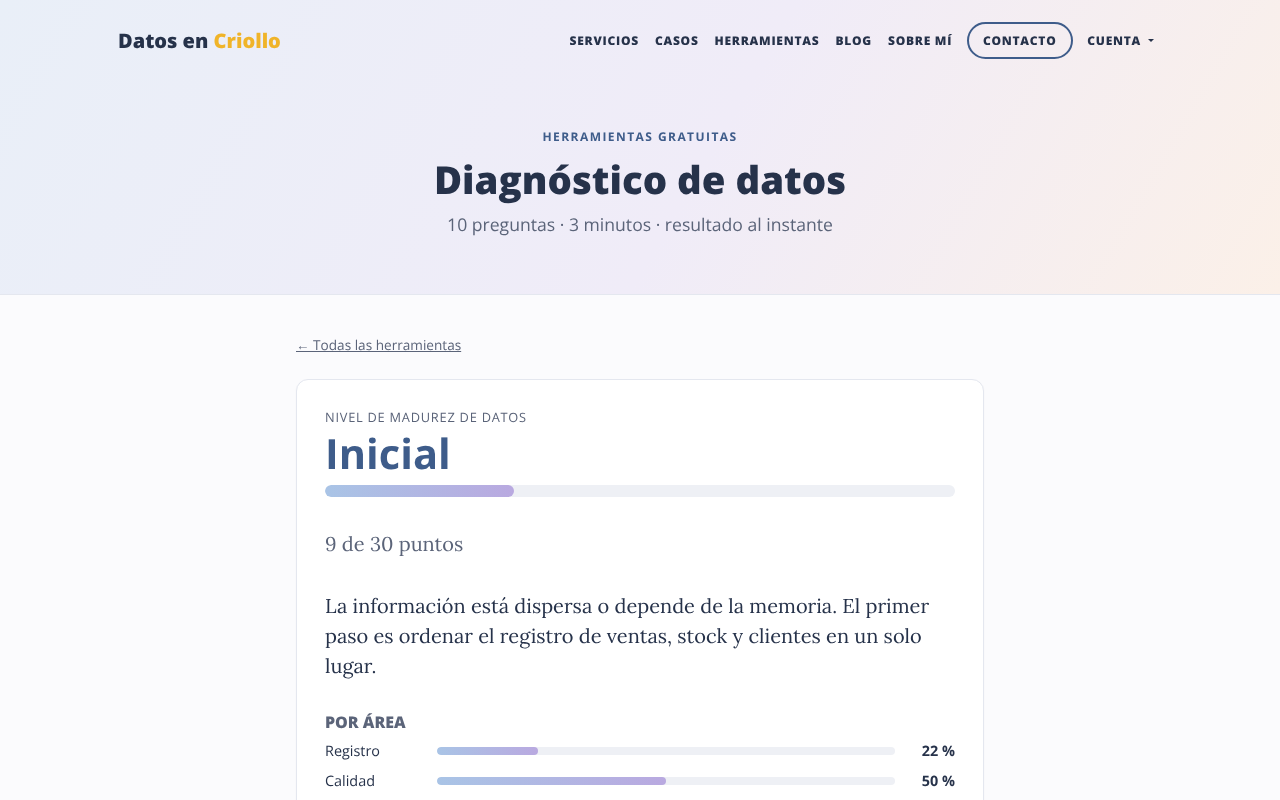
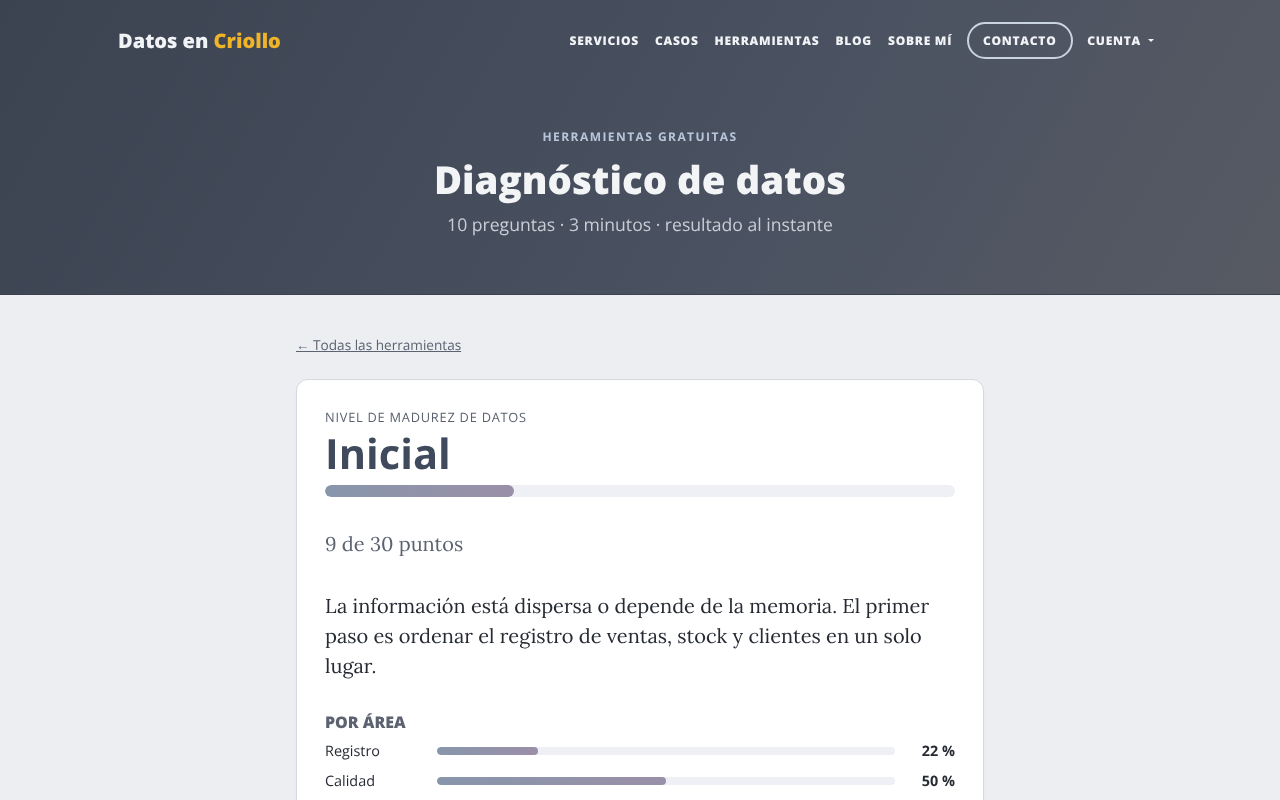
style: cambiar la sección Herramientas a la paleta «Pizarra»
Encabezado gris pizarra con texto claro, fondo gris suave y
indicadores en pastel apagado. Índice de herramientas en grilla de 2x2.

Claude-Session: https://claude.ai/code/session_01KkyTofNQKBaTxkQosPH8Ay

diff --git a/static/css/sitio.css b/static/css/sitio.css
@@ -288,49 +288,46 @@ header.masthead.masthead-inicio .site-heading { padding: 3rem 0 4rem; }
 }
 
 /* =====================================================================
-   Tema pastel: sección Herramientas (sobrio y minimalista)
+   Tema «Pizarra»: sección Herramientas (sobrio, grises y pastel apagado)
    ===================================================================== */
 .tema-pastel {
-    --p-tinta: #26324a;        /* texto principal */
-    --p-tinta-suave: #5b6479;  /* texto secundario */
-    --p-acento: #3e5c8a;       /* azul pizarra para números y botones */
-    --p-borde: #e4e7ef;
-    --p-azul: #e8eef8;   --p-azul-t: #2f4f7f;
-    --p-menta: #e4f3ec;  --p-menta-t: #2e6a4f;
-    --p-lavanda: #eeeaf8; --p-lavanda-t: #5a4a8a;
-    --p-durazno: #fcefe6; --p-durazno-t: #8a4d2c;
-    background: #fbfbfd;
+    --p-tinta: #262b33;        /* texto principal */
+    --p-tinta-suave: #5c6370;  /* texto secundario */
+    --p-acento: #3f4a5c;       /* gris pizarra para números y botones */
+    --p-borde: #d5d9df;
+    --p-azul: #d9e1ea;    --p-azul-t: #33465e;
+    --p-menta: #d8e3db;   --p-menta-t: #355440;
+    --p-lavanda: #dfdae6; --p-lavanda-t: #4d4360;
+    --p-durazno: #e6ddd4; --p-durazno-t: #664c38;
+    background: #eceef1;
 }
 
 /* Menú sobre fondo claro */
 @media (min-width: 992px) {
-    .tema-pastel #mainNav .navbar-brand,
-    .tema-pastel #mainNav .nav-link { color: var(--p-tinta); }
-    .tema-pastel #mainNav .nav-link:hover { color: var(--p-acento); }
-    .tema-pastel #mainNav .nav-destacado { border-color: var(--p-acento); }
+    .tema-pastel #mainNav .nav-destacado { border-color: #c9d3e2; }
 }
 
 /* Encabezado */
 .cabecera-pastel {
     padding: calc(4rem + 57px) 0 3rem;
     margin-bottom: 2.5rem;
-    background: linear-gradient(120deg, #e9eff8 0%, #f0ecf8 55%, #fbf0e8 100%);
-    border-bottom: 1px solid var(--p-borde);
+    background: linear-gradient(120deg, #3b4351 0%, #4a5261 60%, #575a63 100%);
+    border-bottom: 1px solid #3b4351;
     text-align: center;
 }
 @media (min-width: 992px) { .cabecera-pastel { padding: 8rem 0 3.5rem; } }
-.cabecera-pastel h1 { color: var(--p-tinta); font-weight: 800; font-size: 2.4rem; margin: 0; }
+.cabecera-pastel h1 { color: #f3f4f6; font-weight: 800; font-size: 2.4rem; margin: 0; }
 .cabecera-antetitulo {
     font-family: "Open Sans", sans-serif; font-size: 0.75rem; font-weight: 700; letter-spacing: 0.12em;
-    text-transform: uppercase; color: var(--p-acento); margin: 0 0 0.6rem;
+    text-transform: uppercase; color: #b8c6db; margin: 0 0 0.6rem;
 }
-.cabecera-subtitulo { font-family: "Open Sans", sans-serif; color: var(--p-tinta-suave); font-size: 1.1rem; margin: 0.6rem 0 0; }
+.cabecera-subtitulo { font-family: "Open Sans", sans-serif; color: #c9ced6; font-size: 1.1rem; margin: 0.6rem 0 0; }
 
 /* Formulario */
 .tema-pastel .calculadora-form { border-color: var(--p-borde); box-shadow: 0 1px 2px rgba(38, 50, 74, 0.04); }
 .tema-pastel .form-control:focus, .tema-pastel .form-select:focus { border-color: #a9bbd8; box-shadow: 0 0 0 0.2rem rgba(62, 92, 138, 0.12); }
 .tema-pastel .btn-primary { background: var(--p-acento); border-color: var(--p-acento); }
-.tema-pastel .btn-primary:hover { background: #33507a; border-color: #33507a; }
+.tema-pastel .btn-primary:hover { background: #2f3846; border-color: #2f3846; }
 .tema-pastel .form-check-input:checked, .tema-pastel input[type="radio"] { accent-color: var(--p-acento); }
 
 /* Resultado */
@@ -357,17 +354,17 @@ header.masthead.masthead-inicio .site-heading { padding: 3rem 0 4rem; }
 
 /* Diagnóstico */
 .tema-pastel .barra { background: #eef0f5; }
-.tema-pastel .barra-relleno { background: linear-gradient(90deg, #a9c4e6, #b9a9e0); }
+.tema-pastel .barra-relleno { background: linear-gradient(90deg, #8796ab, #9a8fa8); }
 .tema-pastel .barra-area span, .tema-pastel .barra-area strong { color: var(--p-tinta); }
 .tema-pastel .resultado-diagnostico h2 { color: var(--p-tinta-suave); }
-.tema-pastel .recomendaciones li::marker { color: #b9a9e0; }
+.tema-pastel .recomendaciones li::marker { color: #9a8fa8; }
 .tema-pastel .form-diagnostico .pregunta { background: #fff; border-color: var(--p-borde); }
 .tema-pastel .form-diagnostico .opcion:hover span { color: var(--p-acento); }
 
 /* Explicación y llamado */
 .tema-pastel .explicacion { background: #fff; border: 1px solid var(--p-borde); }
 .tema-pastel .explicacion h2 { color: var(--p-tinta); }
-.tema-pastel .llamado-chico { background: #f4f1fa; border-color: #e3dcf3; }
+.tema-pastel .llamado-chico { background: #e2e5ea; border-color: #cfd4db; }
 .tema-pastel .btn-acento {
     background: transparent; border: 1.5px solid var(--p-acento); color: var(--p-acento);
 }
@@ -386,9 +383,10 @@ header.masthead.masthead-inicio .site-heading { padding: 3rem 0 4rem; }
 .tema-pastel .tarjeta-enlace { color: var(--p-acento); }
 .tema-pastel .miga a { color: var(--p-tinta-suave); }
 @media (min-width: 992px) {
-    .tema-pastel #mainNav .navbar-nav > li.nav-item > a,
-    .tema-pastel #mainNav .navbar-nav > li.nav-item > a:focus { color: var(--p-tinta); }
-    .tema-pastel #mainNav .navbar-nav > li.nav-item > a:hover { color: var(--p-acento); }
-    .tema-pastel #mainNav .navbar-brand { color: var(--p-tinta); }
+    .tema-pastel #mainNav:not(.is-fixed) .navbar-nav > li.nav-item > a,
+    .tema-pastel #mainNav:not(.is-fixed) .navbar-nav > li.nav-item > a:focus,
+    .tema-pastel #mainNav:not(.is-fixed) .navbar-brand { color: #f1f3f6; }
+    .tema-pastel #mainNav:not(.is-fixed) .navbar-nav > li.nav-item > a:hover { color: #c9d3e2; }
 }
 .tema-pastel .cabecera-pastel + .container .miga, .tema-pastel main .miga { margin-top: 0; }
+.tema-pastel .grilla-2 { max-width: 900px; margin: 0 auto; grid-template-columns: repeat(auto-fit, minmax(320px, 1fr)); }
